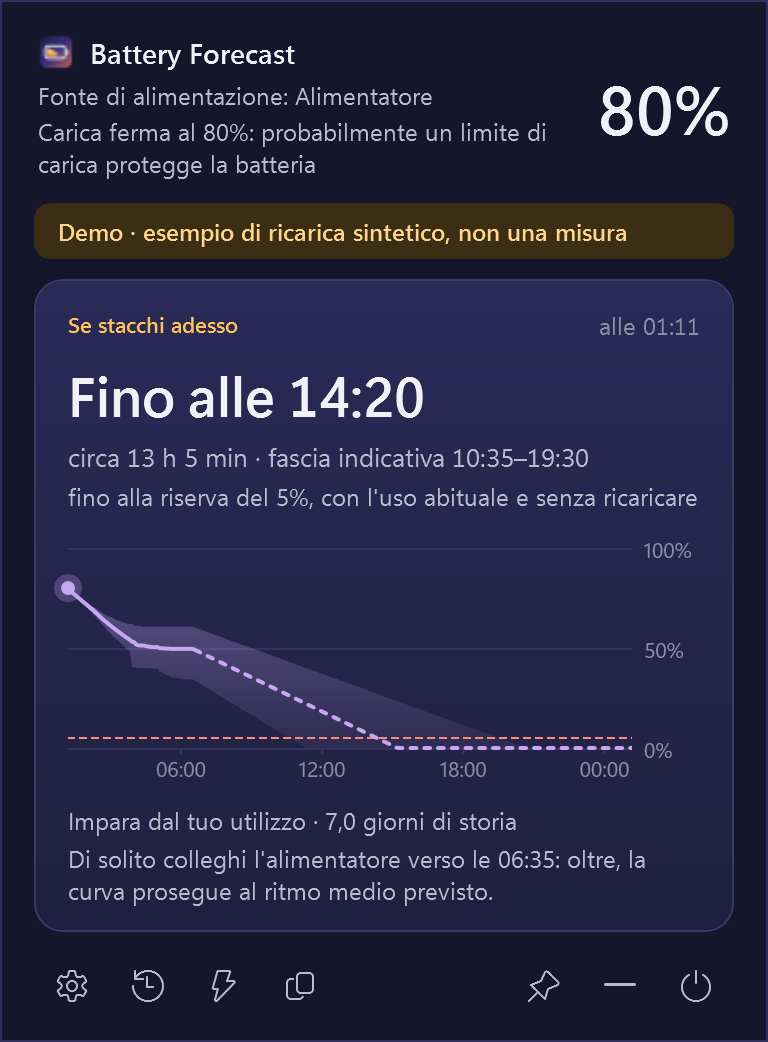
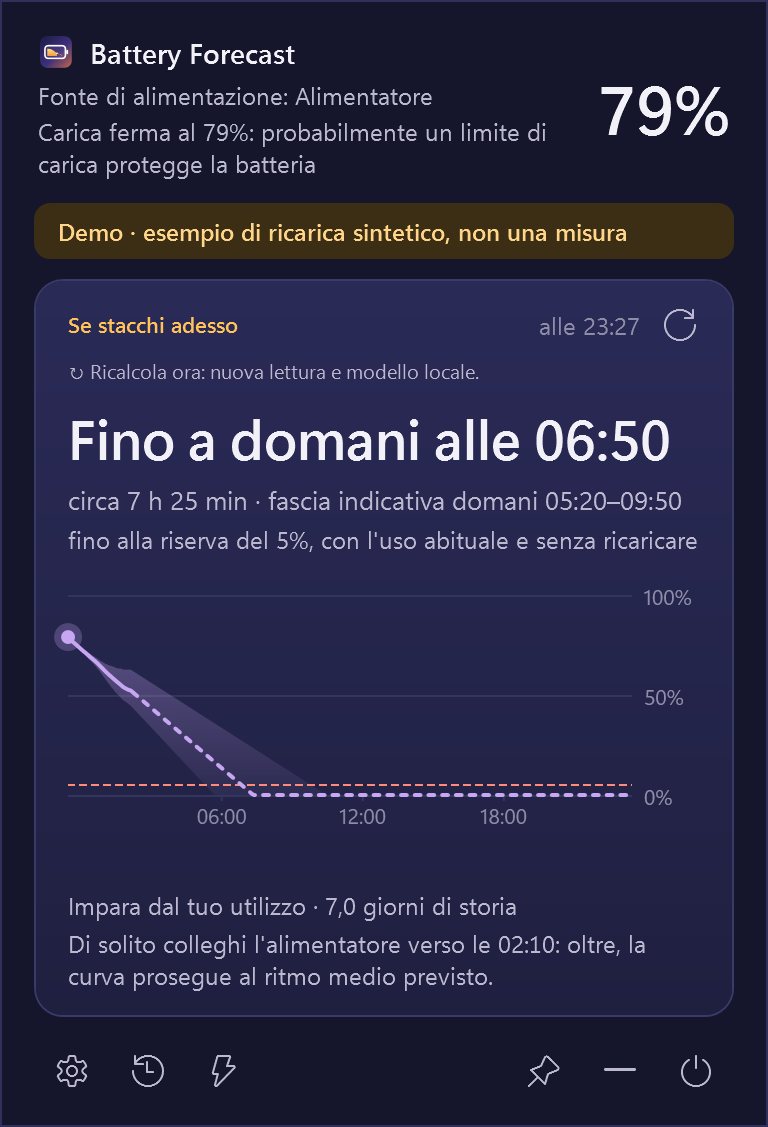
Refresh 0.9.1 interface screenshots and illustrate saved forecast comparisons

diff --git a/site/index.html b/site/index.html
@@ -209,6 +209,13 @@
         <article class="card"><h3>See actual battery trends</h3><p>The first settings page compares recorded battery readings with original saved forecasts and explains individual differences. Toggle observed and predicted curves independently when they overlap. Data and privacy adds observed power, CPU, memory and session display-state charts, with collection controls and missing values kept explicit. Sensor details stay in preferences.</p></article>
       </div>
       <p class="caption">Calculation corrections use consistent timestamps, continuous recent trends and historical context. Functional checks do not establish greater accuracy. <a href="https://github.com/Mattboxx/battery-forecast/blob/main/docs/FORECAST_METHOD.md">Read how the calculation works</a>.</p>
+      <figure style="margin:32px 0 0">
+        <picture>
+          <source srcset="assets/trend-dark.png" media="(prefers-color-scheme: dark)">
+          <img src="assets/trend-light.png" alt="Battery trend settings with separately selectable observed and forecast curves" loading="lazy">
+        </picture>
+        <figcaption class="caption">Demo with synthetic observed history and a real local-model forecast. Original predictions are retained for comparison as new readings arrive.</figcaption>
+      </figure>
     </section>
 
     <section id="privacy" class="wrap reveal">

diff --git a/README.md b/README.md
@@ -269,3 +269,8 @@ summary-only records cannot reconstruct missing past curves. The popup's gold do
 has been removed. Available in 0.9.1. The last genuine cached forecast is also preserved when upgrading.
 
 In Battery trend, the observed and predicted curves have independent checkboxes. Their visibility is saved; hiding a curve never changes saved data or starts inference. The refresh button explanation is inline, without a tooltip.
+
+<picture>
+  <source srcset="docs/images/trend-dark.png" media="(prefers-color-scheme: dark)">
+  <img src="docs/images/trend-light.png" width="880" alt="Battery trend settings with independent observed and forecast checkboxes. Demo with synthetic battery history and a real local-model forecast.">
+</picture>

diff --git a/docs/README.it.md b/docs/README.it.md
@@ -215,3 +215,8 @@ Le interfacce usano l’icona vettoriale originale; rimosso il comando copia rie
 presenti nella 0.9.1. All’aggiornamento viene conservata anche l’ultima previsione autentica rimasta nella cache.
 
 In Andamento puoi spuntare separatamente le curve osservata e prevista: la scelta resta salvata e non modifica i dati né avvia calcoli. Il pulsante Ricalcola ora ha una spiegazione integrata nel pannello, senza didascalia.
+
+<picture>
+  <source srcset="images/it-trend-dark.png" media="(prefers-color-scheme: dark)">
+  <img src="images/it-trend-light.png" width="880" alt="Andamento nelle impostazioni, con curve osservata e prevista spuntabili. Demo con storico sintetico e previsione del modello locale reale.">
+</picture>
